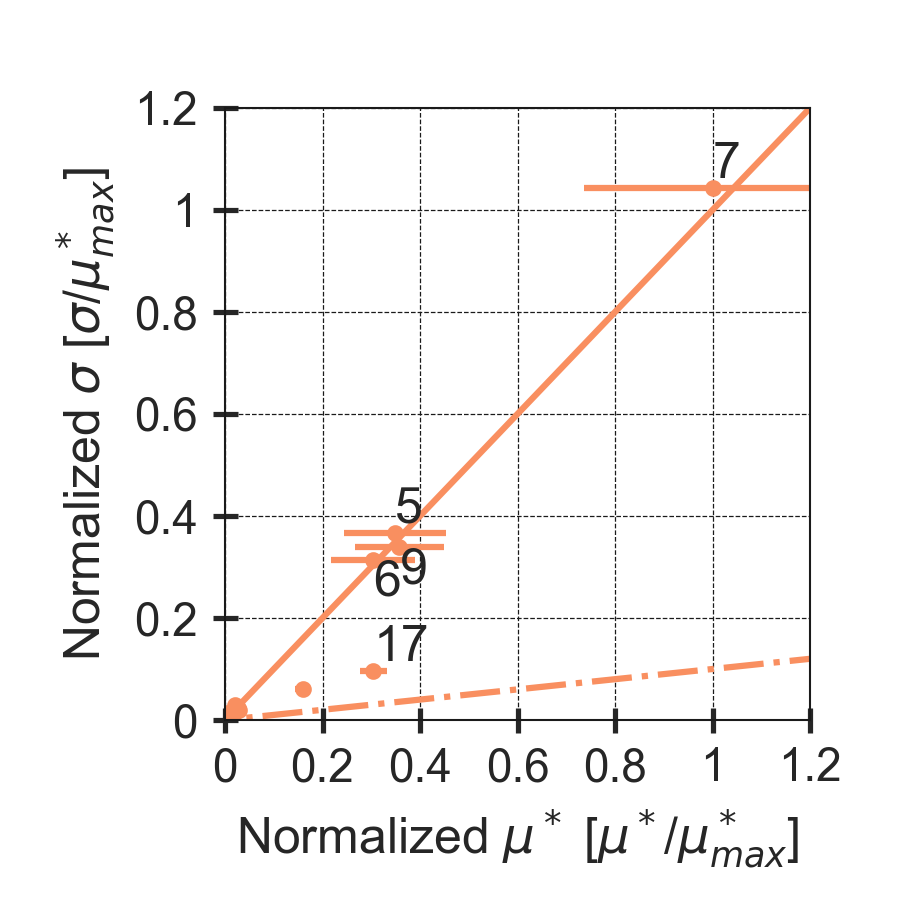
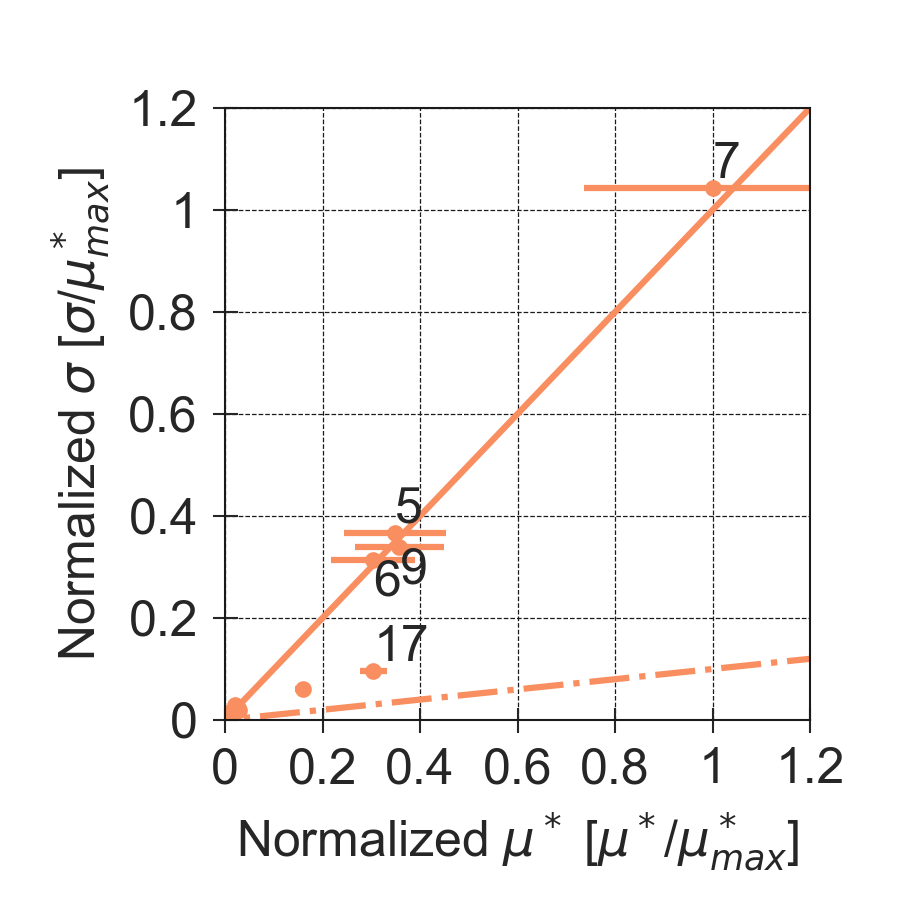
update bwaise figure formatting

diff --git a/exposan/bsm1/analyses.py b/exposan/bsm1/analyses.py
@@ -20,8 +20,8 @@ from exposan.bsm1 import model_bsm1 as mdl, model_2dv as mdl2, model_ss as mdls,
     results_path, figures_path
 import os
 import numpy as np
-import matplotlib.pyplot as plt
-
+import matplotlib as mpl, matplotlib.pyplot as plt
+mpl.rcParams['font.sans-serif'] = 'arial' #!!! Yalin added this
 
 N = 1000
 T = 50
@@ -31,7 +31,7 @@ t_step = 1
 
 def single_SE_state_var_getter(arr, variable):
     if variable == 'Q': i = -1
-    else: 
+    else:
         i_cmp = cmps.index(variable)
         i = 1 + i_cmp
     if variable == 'S_ALK': return arr[:, i]/12
@@ -45,7 +45,7 @@ def analyze_SE_vars(seed, N, pickle=True):
     pcs = np.array([0, 5, 25, 50, 75, 95, 100])
     col_names = [f'{p}th percentile' for p in pcs]
     for var in state_vars:
-        df = analyze_timeseries(single_SE_state_var_getter, N=N, folder=folder, 
+        df = analyze_timeseries(single_SE_state_var_getter, N=N, folder=folder,
                                 variable=var)
         quants = np.percentile(df, q = pcs, axis=1)
         df[col_names] = quants.T
@@ -56,15 +56,15 @@ def analyze_SE_vars(seed, N, pickle=True):
         save_pickle(dct, path)
     return dct
 
-keys = ['S_S', 'S_O', 'S_ALK', 
-        'S_NO', 'S_NH', 'S_ND', 
+keys = ['S_S', 'S_O', 'S_ALK',
+        'S_NO', 'S_NH', 'S_ND',
         'X_S', 'X_I', 'X_ND',
         'X_BH', 'X_BA', 'X_P']
 irows = [0,0,0,1,1,1,2,2,2,3,3,3]
 icols = [0,1,2,0,1,2,0,1,2,0,1,2]
 plots = zip(keys, irows, icols)
 
-keys_wide = ['S_S', 'S_NO', 'X_S', 'X_BH', 
+keys_wide = ['S_S', 'S_NO', 'X_S', 'X_BH',
              'S_O', 'S_NH', 'X_I', 'X_BA',
              'S_ALK', 'S_ND', 'X_ND', 'X_P']
 irows_wide = [0,0,0,0,1,1,1,1,2,2,2,2]
@@ -85,29 +85,29 @@ def plot_SE_timeseries(seed, N, data=None, wide=False):
                         skiprows=[0,2], header=0, usecols='B:Q')
     bl_data.columns = [col.split(' ')[0] for col in bl_data.columns]
     bl_data.S_ALK = bl_data.S_ALK/12
-    if wide: 
+    if wide:
         fig, axes = plt.subplots(3, 4, sharex=True, figsize=(15,8))
         plts = plots_wide
-    else: 
+    else:
         fig, axes = plt.subplots(4, 3, sharex=True, figsize=(12,12))
         plts = plots
     for var, ir, ic in plts:
         df = data[var]
         ax = axes[ir, ic]
-        ax.plot(df.t, df.iloc[:,:N], 
+        ax.plot(df.t, df.iloc[:,:N],
                 color='grey', linestyle='-', alpha=0.05)
         lbl, = ax.plot(df.t, bl_data.loc[:, var],
                      color='orange', linestyle='-', linewidth=2.5,
                       label='Base')
         l5, l95, = ax.plot(df.t, df.loc[:,['5th percentile', '95th percentile']],
-                      color='blue', linestyle='--', 
+                      color='blue', linestyle='--',
                       label='5th, 95th')
         l50, = ax.plot(df.t, df.loc[:,'50th percentile'],
                       color='black', linestyle='-.',
                       label='50th')
-        ax.tick_params(axis='both', direction='inout')
+        ax.tick_params(axis='both', direction='inout', labelsize=12) #!!! Yalin added
         ax2 = ax.secondary_yaxis('right')
-        ax2.tick_params(axis='y', direction='in')
+        ax2.tick_params(axis='y', direction='in', labelsize=12) #!!! Yalin added
         ax2.yaxis.set_major_formatter(plt.NullFormatter())
         # lbm,  = ax.plot(df.t, bm_data.loc[:, var],
         #               color='black', linestyle='-.', label='Matlab/Simulink')
@@ -140,8 +140,25 @@ def plot_kde2d_metrics(model):
         fig, ax = plot_uncertainties(model, x_axis=metrics[i], y_axis=metrics[j],
                                       kind='kde-hist', center_kws={'fill':True},
                                       margin_kws={'kde':True, 'fill':True})
+        #!!! Yalin added this, but not sure which model to run so haven't tested it out
+        ax0, ax1, ax2 = fig.axes # KDE, top box, right box
+        ax0x = ax0.secondary_xaxis('top')
+        ax0y = ax0.secondary_yaxis('right')
+        for ax in (ax0, ax0x, ax0y):
+            ax.tick_params(axis='both', which='both', direction='inout', width=0.5)
+
+        for txt in ax0.get_xticklabels()+ax0.get_yticklabels():
+            txt.set_fontsize(12)
+        ax0x.set_xticklabels('')
+        ax0y.set_yticklabels('')
+
+        ax1.xaxis.set_visible(False)
+        ax1.spines.clear()
+        ax2.spines.clear()
+        ax2.yaxis.set_visible(False)
+
         fig.savefig(os.path.join(figures_path, f'{x}_vs_{y}.png'), dpi=300)
-    fig, ax = plot_uncertainties(model, x_axis=metrics[6], kind='hist', 
+    fig, ax = plot_uncertainties(model, x_axis=metrics[6], kind='hist',
                                  center_kws={'kde':True})
     fig.savefig(os.path.join(figures_path, 'SRT_hist.png'), dpi=300)
 
@@ -152,7 +169,7 @@ def run_ks_test(model):
     key_metrics = [model.metrics[i] for i in to_analyze]
     thrsh = [thresholds[i] for i in to_analyze]
     path = os.path.join(results_path, 'KS_test.xlsx')
-    Ds, ps = get_correlations(model, input_y=key_metrics, kind='KS', 
+    Ds, ps = get_correlations(model, input_y=key_metrics, kind='KS',
                               file=path, thresholds=thrsh)
 
 def run_sensitivity(seed):
@@ -171,7 +188,7 @@ def meshgrid_sample(p1, p2, n):
     samples = np.array([xx.reshape(n**2), yy.reshape(n**2)])
     return samples.T, xx, yy
 
-irs = [0, 0, 1, 1, 2, 2] 
+irs = [0, 0, 1, 1, 2, 2]
 ics = [0, 1, 0, 1, 0, 1]
 
 def fmt(x):
@@ -180,12 +197,12 @@ def fmt(x):
         s = f"{x:.0f}"
     return rf"{s}" if plt.rcParams["text.usetex"] else f"{s}"
 
-from exposan.bsm1 import system as sys 
+from exposan.bsm1 import system as sys
 xbl = sys.aer1.Q_air
 ybl = sys.Q_was
 def plot_heatmaps(xx, yy, n, model=None, path='', wide=False):
     if model: data = model.table
-    else: 
+    else:
         path = path or os.path.join(results_path, 'table_2dv.xlsx')
         data = load_data(path, header=[0,1])
     zs = data.loc[:,['Effluent', 'WAS']].to_numpy(copy=True)
@@ -195,7 +212,7 @@ def plot_heatmaps(xx, yy, n, model=None, path='', wide=False):
         plts = zip(zz, ics, irs)
         fig, axes = plt.subplots(2, 3, sharex=True, sharey=True, figsize=(12,9))
     else:
-        plts = zip(zz, irs, ics)    
+        plts = zip(zz, irs, ics)
         fig, axes = plt.subplots(3, 2, sharex=True, sharey=True, figsize=(9,12))
     for z, ir, ic in plts:
         ax = axes[ir, ic]
@@ -208,7 +225,7 @@ def plot_heatmaps(xx, yy, n, model=None, path='', wide=False):
         ax.plot(xbl, ybl, marker='D', mec='black', mew=1.5, mfc='white')
     fig.savefig(os.path.join(figures_path, 'heatmaps.png'), dpi=300)
     return fig, ax
-    
+
 def run_mapping(model, n, T, t_step, method='BDF', mpath='', tpath=''):
     x = model.parameters[0]
     y = model.parameters[1]
@@ -227,11 +244,11 @@ def run_mapping(model, n, T, t_step, method='BDF', mpath='', tpath=''):
     return xx, yy
 
 def dv_analysis(n=20, T=50, t_step=1, save_to='table_2dv.xlsx'):
-    xx, yy = run_mapping(mdl2, n, T, t_step, 
+    xx, yy = run_mapping(mdl2, n, T, t_step,
                          mpath=os.path.join(results_path, save_to))
     plot_heatmaps(xx, yy, n, mdl2)
     # plot_heatmaps(xx, yy, n, path=os.path.join(results_path, save_to))
-    
+
 #%% 50-d simulations with different initial conditions
 
 
@@ -245,16 +262,16 @@ def plot_SE_yt_w_diff_init(seed, N, data=None, wide=False):
     bm_data = load_data(os.path.join(results_path, 'matlab_exported_data.xlsx'),
                         sheet='Data_ASin_changed', header=1, skiprows=0, usecols='A,CU:DF')
     bm_data.columns = [col.rstrip('.6') for col in bm_data.columns]
-    if wide: 
+    if wide:
         fig, axes = plt.subplots(3, 4, sharex=True, figsize=(15,8))
         plts = plots_wide
-    else: 
+    else:
         fig, axes = plt.subplots(4, 3, sharex=True, figsize=(12,12))
         plts = plots
     for var, ir, ic in plts:
         df = data[var]
         ax = axes[ir, ic]
-        ax.plot(df.t, df.iloc[:,:N], 
+        ax.plot(df.t, df.iloc[:,:N],
                 color='grey', linestyle='-', alpha=0.25)
         lbm, = ax.plot(df.t, bm_data.loc[:, var],
                        color='red', linestyle='-.', label='MATLAB/Simulink')
@@ -271,7 +288,7 @@ def plot_SE_yt_w_diff_init(seed, N, data=None, wide=False):
     return fig, ax
 
 def UA_w_diff_inits(N=100):
-    seed = int(str(time())[-3:])    
+    seed = int(str(time())[-3:])
     # run_uncertainty(mdls, N, T, t_step, method='BDF', seed=seed)
     run_wdiff_init(mdls, N, T, t_step, method='BDF', seed=seed)
     out = analyze_SE_vars(seed, N)
@@ -282,9 +299,9 @@ def UA_w_diff_inits(N=100):
 if __name__ == '__main__':
     # UA_w_all_params()
     # run_sensitivity(624)
-    # plot_SE_timeseries(seed=624, N=N, wide=True)
-    
-    dv_analysis()
-    
+    plot_SE_timeseries(seed=624, N=N, wide=True)
+
+    # dv_analysis()
+
     # UA_w_diff_inits()
     # plot_SE_yt_w_diff_init(seed=235, N=100)

diff --git a/exposan/bwaise/analyses.py b/exposan/bwaise/analyses.py
@@ -75,7 +75,7 @@ def plot_box(model, ID, color, metrics, ax_dct, kind='horizontal',
              whis=(5, 95), sym=''):
     if kind == 'horizontal':
         fig, ax = s.plot_uncertainties(model, y_axis=metrics, kind='box',
-                                       center_kws={'color': color, 'width': 0.6,
+                                       center_kws={'color': color, 'width': 0.5,
                                                    'whis': whis, 'sym': sym})
         ax.get_legend().remove()
         fig.set_figheight(2.5)
@@ -84,7 +84,7 @@ def plot_box(model, ID, color, metrics, ax_dct, kind='horizontal',
         ax.set_yticklabels([i.name.lstrip('Total ') for i in metrics], fontsize=20)
         ax.set_xticklabels([f'{i:.0%}' for i in ticks], fontsize=20)
         ax.xaxis.set_minor_locator(AutoMinorLocator(2))
-        ax.tick_params(axis='both', which='both', direction='inout')        
+        ax.tick_params(axis='both', which='both', direction='inout')
 
         ax2 = ax.secondary_xaxis('top')
         ax2.xaxis.set_major_formatter(plt.NullFormatter())
@@ -93,7 +93,7 @@ def plot_box(model, ID, color, metrics, ax_dct, kind='horizontal',
         fig.subplots_adjust(left=0.2, bottom=0.25)
     else:
         fig, ax = s.plot_uncertainties(model, x_axis=metrics, kind='box',
-                                       center_kws={'color': color, 'width': 0.6,
+                                       center_kws={'color': color, 'width': 0.5,
                                                    'whis': whis, 'sym': sym})
         ax.get_legend().remove()
         fig.set_figwidth(2.5)
@@ -105,7 +105,7 @@ def plot_box(model, ID, color, metrics, ax_dct, kind='horizontal',
         ax.set_yticklabels([f'{i:.0%}' for i in ticks], fontsize=20)
         ax.yaxis.set_minor_locator(AutoMinorLocator(2))
         ax.tick_params(axis='both', which='both', direction='inout')
-        
+
         ax2 = ax.secondary_yaxis('right')
         ax2.yaxis.set_major_formatter(plt.NullFormatter())
         ax2.yaxis.set_minor_locator(AutoMinorLocator(2))
@@ -136,7 +136,7 @@ def plot_kde(model, ID, color, metrics):
     ax0y = ax0.secondary_yaxis('right')
     ax0y.yaxis.set_minor_locator(AutoMinorLocator(2))
     for ax in (ax0, ax0x, ax0y):
-        ax.tick_params(axis='both', which='both', direction='inout')
+        ax.tick_params(axis='both', which='both', direction='inout', width=0.5)
 
     for i in (ax0, ax1):
         i.set_xlim(0, 60)
@@ -226,7 +226,8 @@ def plot_morris_scatter(model, morris_dct, combined_morris, color,
                     label = combined_morris[combined_morris.parameter==idx].index.values.item()
                     ax.annotate(label, (top.loc[idx].mu_star, top.loc[idx].sigma),
                                 xytext=(2, 2), textcoords='offset points',
-                                ha='center')
+                                ha='center', fontsize=14)
+            labelsize = 'large'
         else:
             if label_points:
                 labels = []
@@ -235,9 +236,11 @@ def plot_morris_scatter(model, morris_dct, combined_morris, color,
                     labels.append(ax.text(top.loc[idx].mu_star, top.loc[idx].sigma, label))
                 from adjustText import adjust_text
                 adjust_text(labels)
+            labelsize = None
 
         plot_minor_ticks_and_grid(ax, nx=1, ny=1)
-        ax.tick_params(axis='both', which='both', direction='inout')
+        ax.tick_params(axis='both', which='both', direction='inout', width=0.5,
+                       labelsize=labelsize)
 
         if not plot_combined:
             fig.subplots_adjust(bottom=0.2, left=0.25)
@@ -293,13 +296,17 @@ def plot_morris_scatter_all(models, morris_dct, combineds, RGBs):
 
         if n_model == 0:
             for n, ax in enumerate(axs):
-                ax.set_ylabel(model.metrics[n].name, fontsize=14)
-        axs[-1].set_xlabel(f'System {ID}', fontsize=14)
+                ax.set_ylabel(model.metrics[n].name, fontsize=14, fontweight='bold')
+                ax.yaxis.labelpad = 15
+        # breakpoint()
+        axs[0].set_xlabel(f'System {ID}', fontsize=14, fontweight='bold')
+        axs[0].xaxis.set_label_position('top')
+        axs[0].xaxis.labelpad = 15
 
     fig.tight_layout()
-    fig.supxlabel(r'Normalized $\mu^*$ [$\mu^*$/$\mu^*_{max}$]', fontsize=20, fontweight='bold')
-    fig.supylabel(r'Normalized $\sigma$ [$\sigma$/$\mu^*_{max}$]', fontsize=20, fontweight='bold')
-    fig.subplots_adjust(left=0.12, bottom=0.06)
+    fig.supxlabel(r'Normalized $\mu^*$ [$\mu^*$/$\mu^*_{max}$]', y=0.01, fontsize=20, fontweight='bold')
+    fig.supylabel(r'Normalized $\sigma$ [$\sigma$/$\mu^*_{max}$]', x=0, fontsize=20, fontweight='bold')
+    fig.subplots_adjust(left=0.12, bottom=0.05)
     fig.savefig(os.path.join(figures_path, 'morris_normalized_combined.png'), dpi=300)
 
 
@@ -335,9 +342,14 @@ def plot_morris_bubble(combineds):
     g.ax.set_ylabel('Parameter', fontsize=20, fontweight='bold')
 
     for label in g.ax.get_xticklabels():
-        label.set_rotation(90)
+        label.set_rotation(60)
+        label.set_fontsize(14)
+    for label in g.ax.get_yticklabels():
+        label.set_fontsize(14)
+    for text in g.legend.get_texts():
+        text.set_fontsize(14)
 
-    g.fig.subplots_adjust(bottom=0.15)
+    g.fig.subplots_adjust(left=0.22, bottom=0.15)
     g.fig.savefig(os.path.join(figures_path, 'morris_normalized_bubble.png'), dpi=300)
 
     return g.ax
